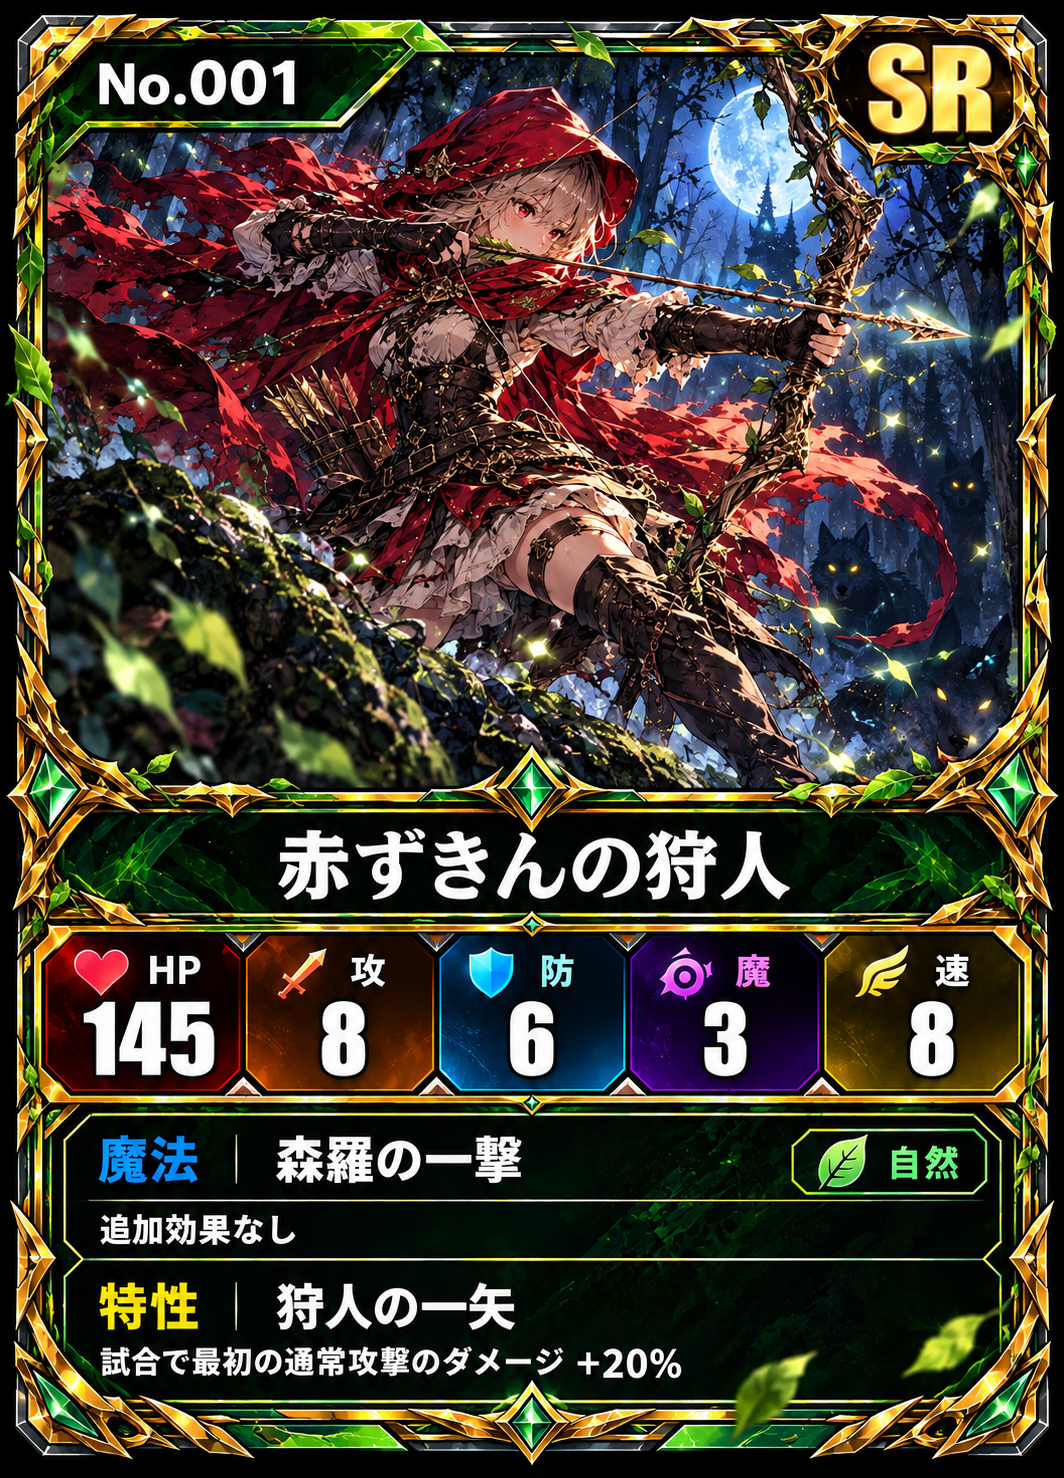
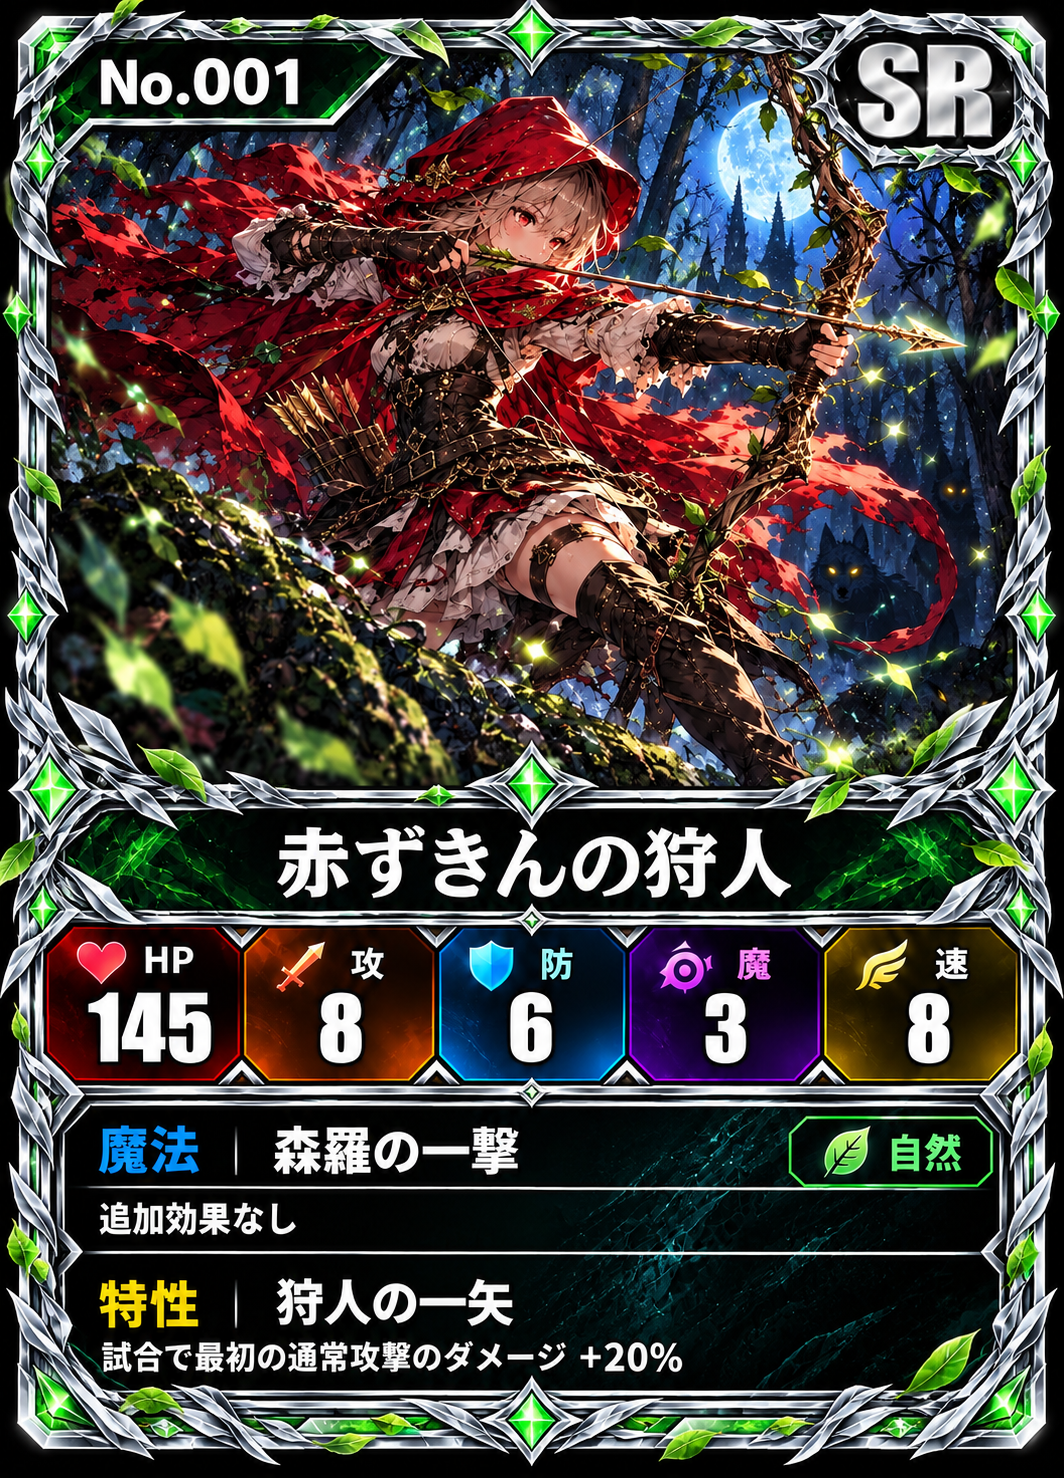
MYTHCLASH: No.001 赤ずきんの狩人 を銀のわくの絵に差しかえ(前の絵は unused/)
Claude-Session: https://claude.ai/code/session_01MXithgTc5umkveoyZShZHQ

diff --git a/docs/MYTHCLASH.md b/docs/MYTHCLASH.md
@@ -187,7 +187,7 @@
 - 絵がかぶらないように、カードごとに「写す広さ・カメラの高さ・動き・光の方向・主な色」の2〜3個を変えた構図の文を Claude が作る（企画者 2026-10-28）。
   - No.008 菓子牢の魔女：表どおり（(50%) も描いてあった）。
 - 届いたカード：No.001〜029・101。
-- 2026-10-29：これから描くSRのカードは、わくを銀色にする（企画者）。前に届いたSR（No.001・014）は金のわくのまま。No.016・021・028 は銀のわくの絵に差しかえた
+- 2026-10-29：これから描くSRのカードは、わくを銀色にする（企画者）。前に届いたSR（No.014）は金のわくのまま。No.001・016・021・028 は銀のわくの絵に差しかえた
 
 ### 名前を BLOOD TOWER に（2026-10-27）【確定】
 - 企画者「ストーリーじゃなくて BLOOD TOWER にしよう」→ モードえらびのボタンを「🏰 BLOOD TOWER」に。
